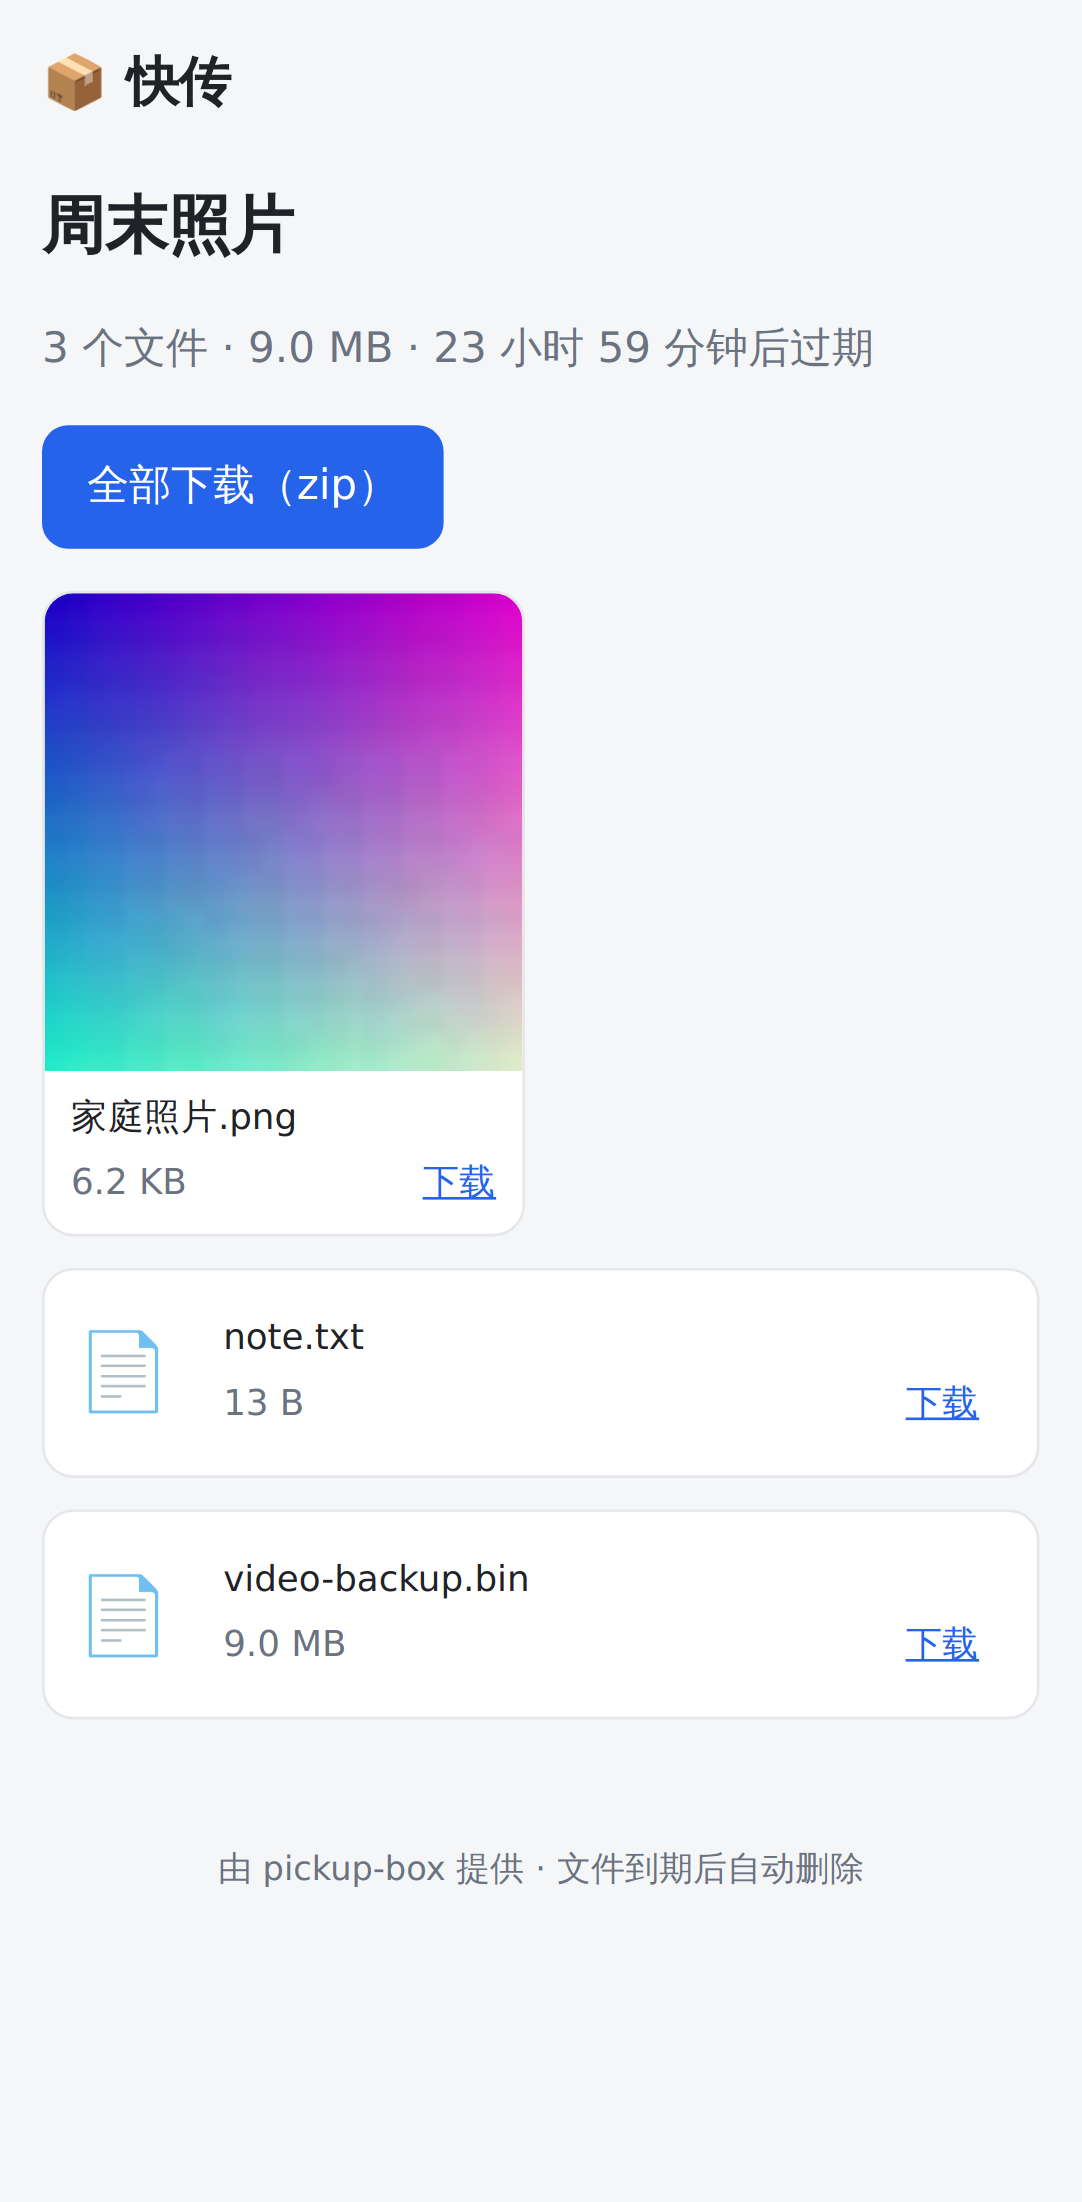
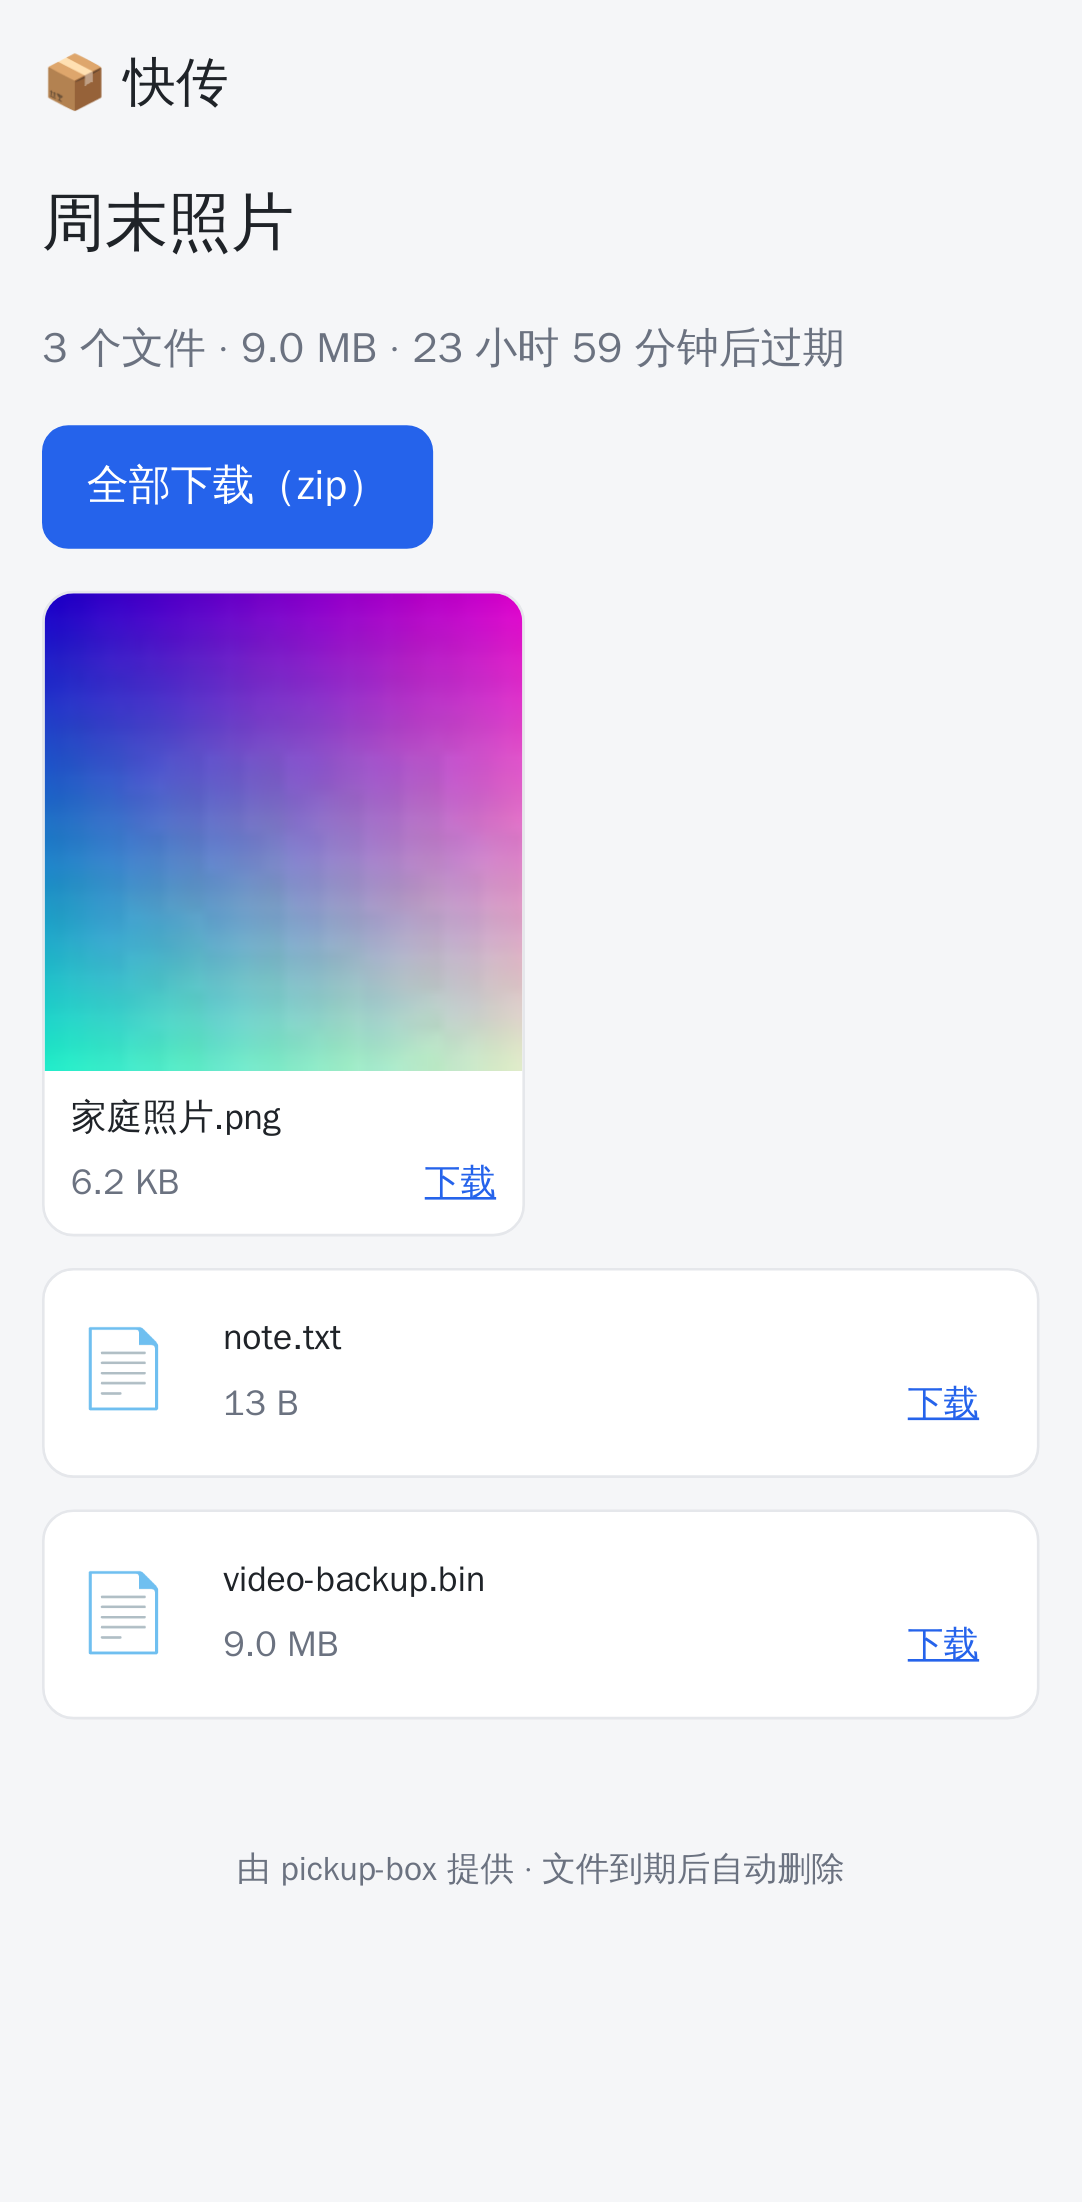
Product metrics; refreshed screenshots; progress notes
- Prometheus counters for shares created, counted visits, wrong pickup
  codes, failed logins, zip and single-file downloads; CI checks they move.
- README screenshots regenerated from the browser test.

diff --git a/PROGRESS.md b/PROGRESS.md
@@ -77,7 +77,7 @@
 
 - [x] GC（worker 0）：释放失效分享的取件码、清除过期记录、删除无引用 blob 及其缓存、清理过期 tus 会话与残留临时文件
 - [x] 上传前检查磁盘水位与口令配额（管理员不受配额限制）
-- [ ] 指标：`shares_created`、`pickup_code_failures` 等业务指标（目前只有上传/处理/下载类指标）
+- [x] 业务指标：`pickupbox_shares_created_total`、`share_visits`、`pickup_code_failures`、`auth_failures`、`zip_downloads`、`file_downloads`（CI 校验非零）
 
 ## Phase 7：部署与文档
 
@@ -91,8 +91,10 @@
 - [x] `tools/e2e.py`：约 80 项端到端检查（上传/续传/校验和/配额/分享/取件码/Range/中文文件名/HTML 附件/预览/zip 与 ZIP64/二维码/次数/机器人/撤回/延期/过期/防暴力破解/GC）
 - [x] `tools/browser_test.py`：Playwright 在模拟手机上走完整发送与取件流程，截图存档
 - [x] `spec/unit/`：配置解析、文件名清洗、UTF-8、CRC-32、类型识别、zip 结构（含 ZIP64）
+- [x] WebKit（Safari 内核）浏览器测试：发现并修复了 Safari 单文件无法下载的问题
 - [ ] 真机实测：iOS Safari、安卓微信内置浏览器（含切后台续传）——需要真人手机
-- [ ] 压力测试：并发取件页、缩略图、大文件下载
+- [x] 并发压力测试 `tools/stress.py`（并行分块上传含相同内容 + 并发取件页/预览/Range/zip），经 Caddy 运行，并检查日志无 worker 崩溃/锁库
+- [ ] 更大规模压测（真实带宽、上百并发、GB 级文件）——需要真实服务器
 
 ---
 
@@ -105,7 +107,25 @@
 
 ## CI 记录
 
-### 2026-11-23：从首次运行到全绿（共 10 轮）
+### 2026-11-23（下午）：快传功能上线到 CI 全绿（11 个 job）
+
+当前流水线：lint（Lua/JS/Python 语法、luacheck、env 声明检查、旧名检查）→ 单元测试 → 镜像构建 → 端到端（开发栈，含过期/防暴力破解/GC、指标非零、无崩溃）→ 浏览器（Chromium + WebKit，模拟 iPhone/Android）→ 生产部署（`install.sh` + Caddy HTTPS，端到端 + 并发压测 + 无崩溃）→ 无域名 HTTP 部署 → 发布 ghcr.io 多架构镜像 → 在 amd64 与 arm64 上用安装脚本拉取发布的镜像并跑端到端。
+
+这一阶段 CI 发现并修复的问题：
+
+| 问题 | 后果 |
+| --- | --- |
+| 在 `content_by_lua` 里设置 `X-Accel-Redirect` 不会被 nginx 处理 | 原来的图片接口从未真正返回过文件内容 |
+| tus PATCH 请求体被 nginx 缓冲到临时文件时被当成空 | 断点续传在真实场景下丢数据 |
+| `vips_flatten` 传了裸 C 数组而不是 `VipsArrayDouble*` | 生成 JPEG 时 worker 段错误 |
+| 编码器探测对 GIF 传 `Q` 参数 | GIF 一直被误判为不可用 |
+| `PICKUP_*` 通过辅助函数读取，未被声明到 nginx env | 只是碰巧在 master 里加载才能工作 |
+| 附件响应带 CSP `sandbox`；`text/plain` 附件被 WebKit 直接显示 | iPhone 上点“下载”没反应或显示乱码 |
+| 空 `PICKUP_DOMAIN` 被原样传给 Caddy | 无域名（用 IP 测试）模式下 Caddy 无法启动 |
+| 安装脚本在无终端时询问域名 | 非交互环境下安装中断 |
+| GC 测试用“创建分享”探测文件是否存在 | 探测本身让文件一直被引用（测试缺陷） |
+
+### 2026-11-23（上午）：从首次运行到全绿（共 10 轮）
 
 首次推送时四个 job 全红。之前的代码**从未真正构建或运行过**。逐轮修掉的问题：
 
